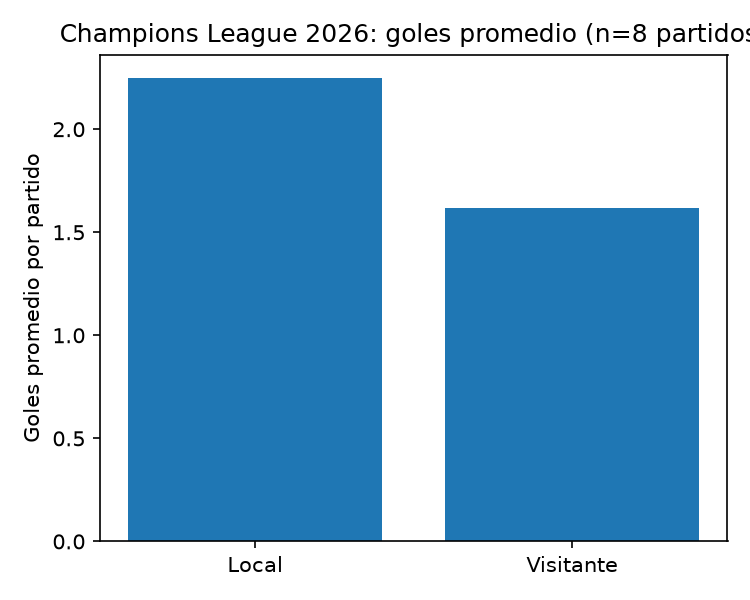
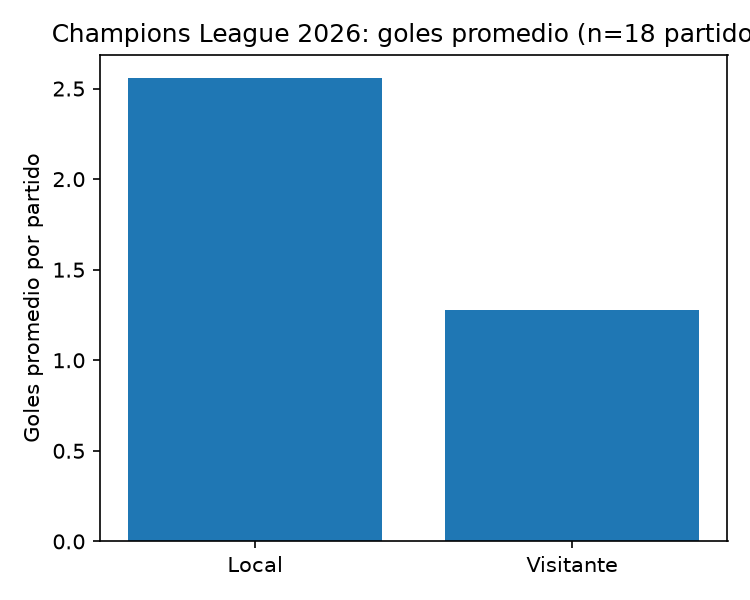
Agrega validacion de instalacion limpia

diff --git a/docs/validacion_instalacion.md b/docs/validacion_instalacion.md
@@ -1,0 +1,32 @@
+# Validación de instalación limpia
+
+**Realizada por:** Mateo Galvan
+**Fecha:** 11 de septiembre de 2026
+**Sistema operativo:** macOS (MacBook Air de Mateo)
+**Versión de Python:** Python 3.12.7
+
+## Pasos que funcionaron sin problema
+- Clonar el repositorio (git clone)
+- Crear la rama de trabajo (git checkout -b)
+- Crear el entorno virtual (python3 -m venv .venv) y activarlo
+- cp .env.example .env
+- Configurar las credenciales en .env
+- Descarga de datos de football-data.org (src/extract_api_football_data.py) — 144 filas guardadas sin problema
+- Descarga de datos históricos de Kaggle (src/extract_kaggle_historical.py) — ambos archivos descargados sin problema
+- Registro del kernel de Jupyter (ipykernel install)
+- Apertura y ejecución completa del notebook (Restart Kernel and Run All Cells), sin ninguna celda con error
+- Generación de la gráfica "Primera evidencia" en docs/
+
+## Problemas encontrados
+- El comando "code" (para abrir VS Code desde terminal) no fue reconocido ("zsh: command not found: code"), porque VS Code no estaba instalado previamente en esta máquina y/o no se había agregado al PATH. Solución: se usó "open -e" como alternativa para abrir archivos de texto mientras se instalaba VS Code. Esto no está mencionado como requisito previo en el README.
+- Al correr "pip install -r requirements.txt" por primera vez, el resolver de pip tardó mucho tiempo intentando encontrar una versión compatible de matplotlib (probó desde la 3.11.1 hasta la 3.7.2), y finalmente falló con un error de red: "pip._vendor.urllib3.exceptions.ReadTimeoutError: HTTPSConnectionPool(host='files.pythonhosted.org', port=443): Read timed out." Al reintentar el mismo comando una segunda vez, la instalación se completó sin problema. Parece haber sido un corte de red puntual, pero el tiempo de resolución de dependencias de matplotlib fue notablemente largo.
+
+## Resultado final
+- [x] El notebook corrió completo sin errores
+- [x] La gráfica de "Primera evidencia" se generó correctamente
+- [x] Los datos descargados tienen sentido (revisé algunas filas)
+
+## Recomendaciones para el README
+- Agregar VS Code como requisito previo recomendado (o aclarar que el comando "code" en terminal requiere instalarlo y agregarlo al PATH desde la paleta de comandos de VS Code).
+- Considerar fijar versiones (pinning) en requirements.txt, ya que sin versiones exactas pip puede tardar mucho tiempo resolviendo dependencias compatibles (se observó con matplotlib).
+- Aclarar en la sección "Resultados principales" que los números de goles promedio corresponden a un corte de datos específico (por ejemplo, "con N partidos finalizados al [fecha]"), ya que estos cambian conforme avanza la temporada. En esta validación, con 18 partidos finalizados, el promedio fue 2.56 (local) vs 1.28 (visitante), distinto de los 2.25 vs 1.62 reportados originalmente con 8 partidos.
